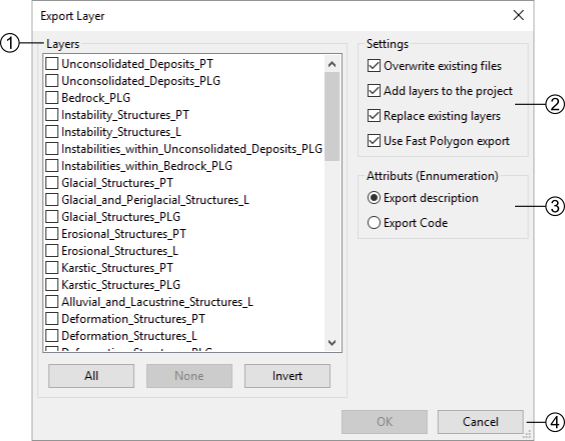
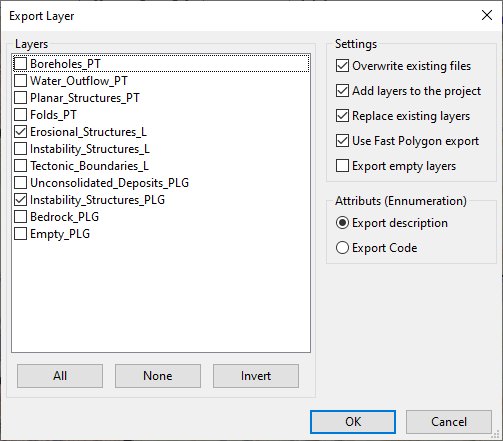
Editing the export description.

diff --git a/doc/usermanual/projectmanagement.rst b/doc/usermanual/projectmanagement.rst
@@ -432,25 +432,25 @@ The exportation is made with the option :menuselection:`Project --> Export Layer
 
 .. image:: img/window-exportlayer.png
 
-#. List of the layers defined in your data model (previously exported layers are automatically selected). Layers selection controls:
+**Layers**: List of the layers defined in your data model (previously exported layers are automatically selected). Layers selection controls:
 
     * All: select all the layers
     * None: remove all the selected layers
     * Invert: invert your current selection
 
-#. Export settings 
+**Settings** 
 
     * Overwrite existing files (if disabled an increment will be added to the exported files)
     * Add layers to the project
     * Replace existing layers (only when the option to add layers to the project is selected)
     * Use Fast Polygon export
+	* Export empty layer
 
-#. Attributes (Enumeration)
+**Attributes (Enumeration)**
 
     * Export description
     * Export code
 
-#. Export or cancel the exportation
 
 When Exporting a Polygon Layer, ToolMap automatically create a column "NB_LABELS" in the resulting file. This column is filled for each polygon with the number of labels inside that polygon.
 
